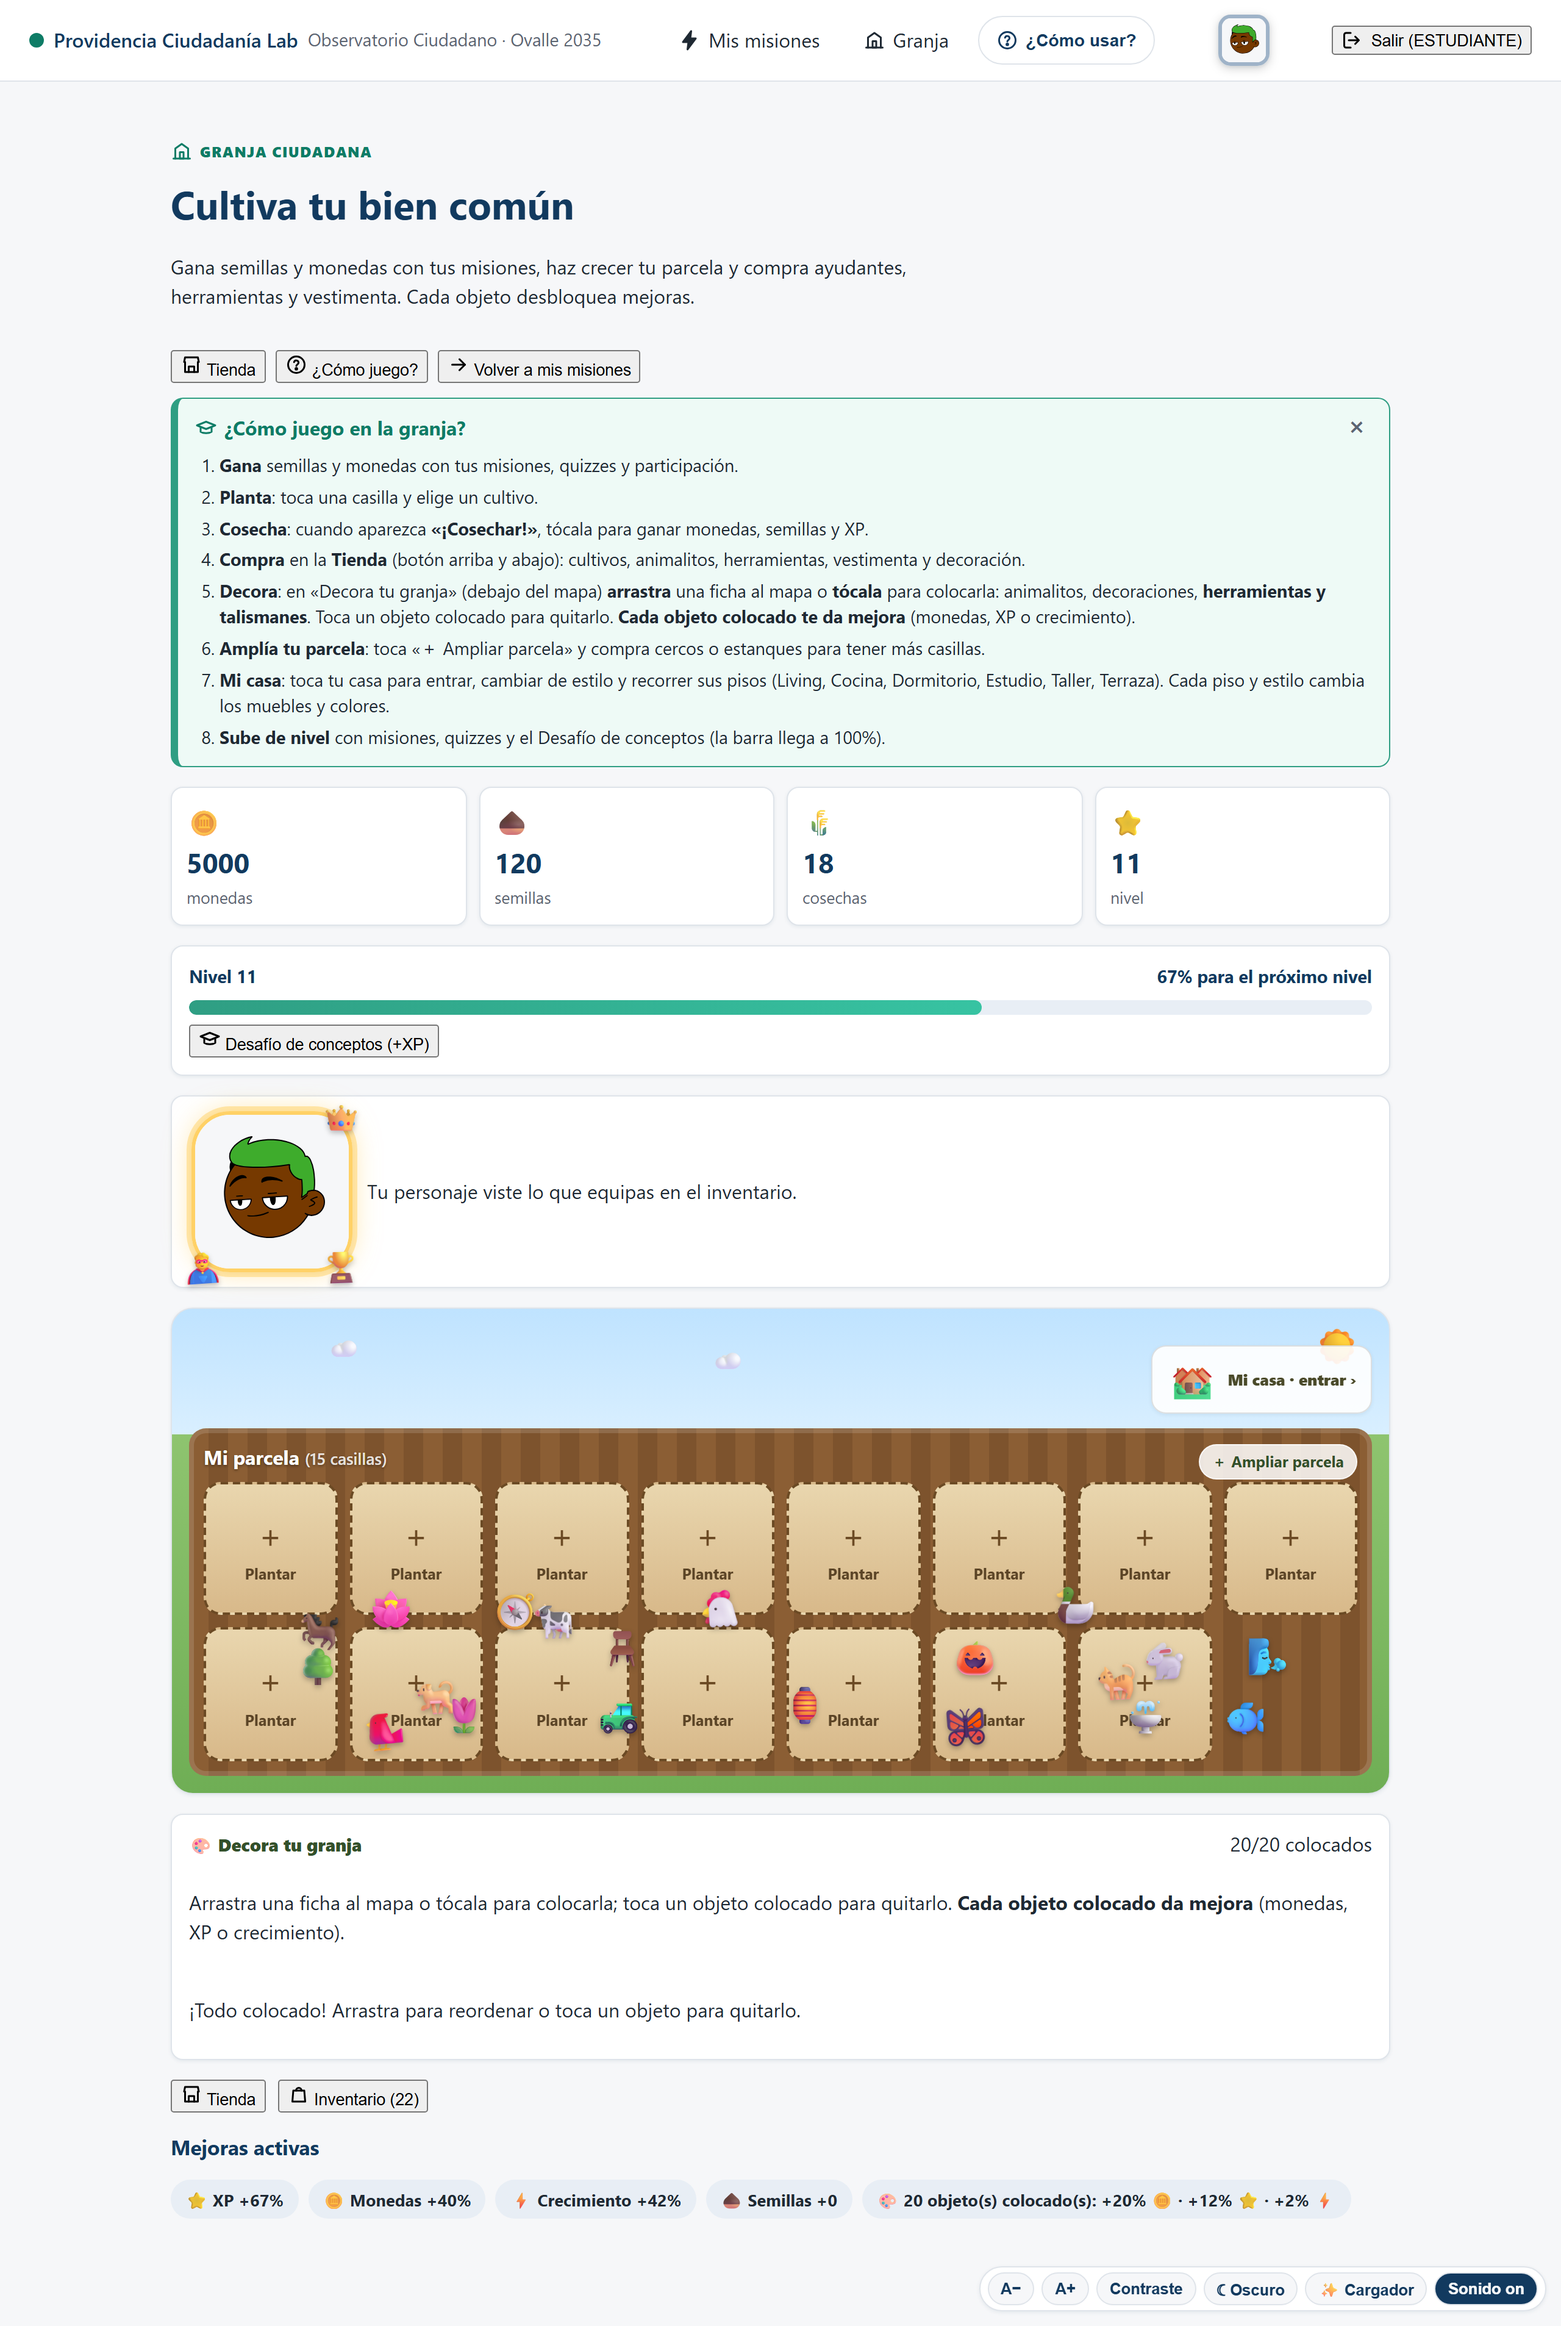
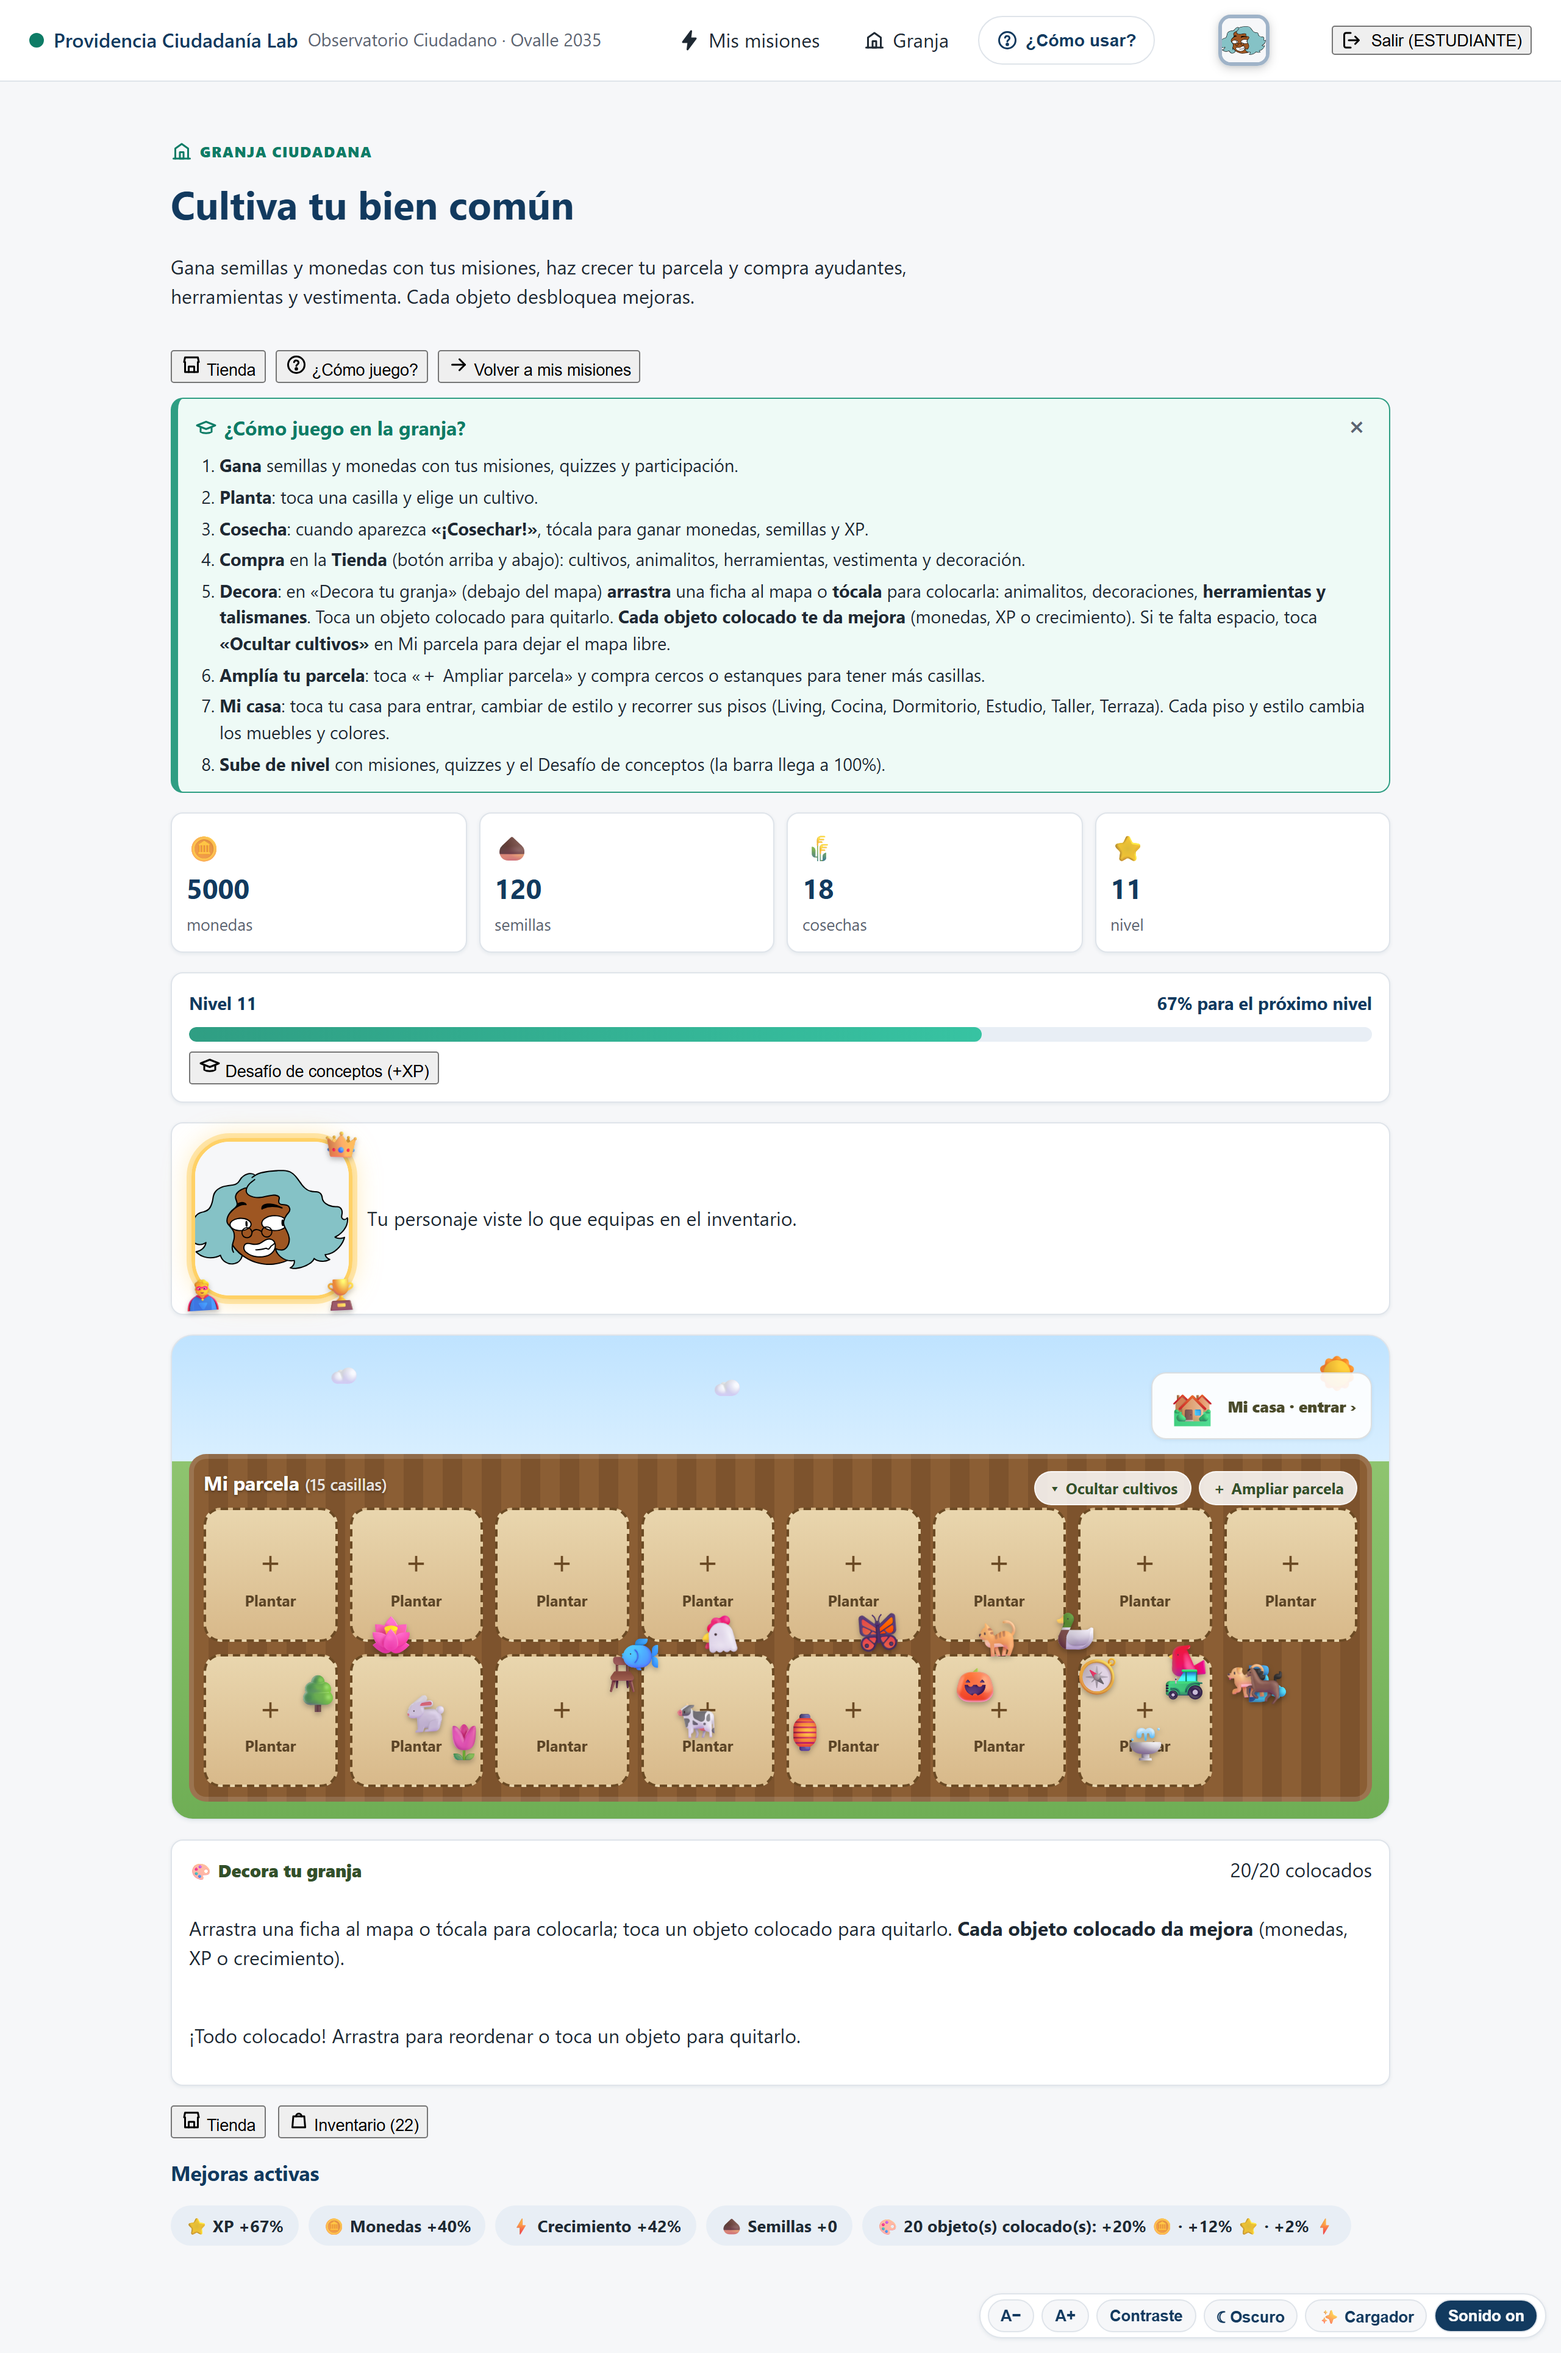
feat: colapsar/expandir cultivos para dejar el mapa libre a los adornos (0.20.0)
- Boton Ocultar/Mostrar cultivos (persistido) para colapsar la parcela
- Hint y layout; E2E verifica el toggle; hosting desplegado
- Captura docs/assets/granja-adornos.png con el mapa libre

diff --git a/apps/web/src/features/farm/FarmView.vue b/apps/web/src/features/farm/FarmView.vue
@@ -235,6 +235,25 @@ function openShop(category?: FarmItem["category"]): void {
   panel.value = "shop";
 }
 
+const FIELD_KEY = "pclab-farm-field";
+const fieldOpen = ref(
+  (() => {
+    try {
+      return localStorage.getItem(FIELD_KEY) !== "0";
+    } catch {
+      return true;
+    }
+  })(),
+);
+function toggleField(): void {
+  fieldOpen.value = !fieldOpen.value;
+  try {
+    localStorage.setItem(FIELD_KEY, fieldOpen.value ? "1" : "0");
+  } catch {
+    // sin almacenamiento
+  }
+}
+
 const HELP_KEY = "pclab-farm-help";
 const showHelp = ref(
   (() => {
@@ -388,7 +407,7 @@ function itemsByCategory(category: FarmItem["category"]): FarmItem[] {
         <li><b>Planta</b>: toca una casilla y elige un cultivo.</li>
         <li><b>Cosecha</b>: cuando aparezca <b>«¡Cosechar!»</b>, tócala para ganar monedas, semillas y XP.</li>
         <li><b>Compra</b> en la <b>Tienda</b> (botón arriba y abajo): cultivos, animalitos, herramientas, vestimenta y decoración.</li>
-        <li><b>Decora</b>: en «Decora tu granja» (debajo del mapa) <b>arrastra</b> una ficha al mapa o <b>tócala</b> para colocarla: animalitos, decoraciones, <b>herramientas y talismanes</b>. Toca un objeto colocado para quitarlo. <b>Cada objeto colocado te da mejora</b> (monedas, XP o crecimiento).</li>
+        <li><b>Decora</b>: en «Decora tu granja» (debajo del mapa) <b>arrastra</b> una ficha al mapa o <b>tócala</b> para colocarla: animalitos, decoraciones, <b>herramientas y talismanes</b>. Toca un objeto colocado para quitarlo. <b>Cada objeto colocado te da mejora</b> (monedas, XP o crecimiento). Si te falta espacio, toca <b>«Ocultar cultivos»</b> en Mi parcela para dejar el mapa libre.</li>
         <li><b>Amplía tu parcela</b>: toca «＋ Ampliar parcela» y compra cercos o estanques para tener más casillas.</li>
         <li><b>Mi casa</b>: toca tu casa para entrar, cambiar de estilo y recorrer sus pisos (Living, Cocina, Dormitorio, Estudio, Taller, Terraza). Cada piso y estilo cambia los muebles y colores.</li>
         <li><b>Sube de nivel</b> con misiones, quizzes y el Desafío de conceptos (la barra llega a 100%).</li>
@@ -447,12 +466,18 @@ function itemsByCategory(category: FarmItem["category"]): FarmItem[] {
             <span class="house-name">Mi casa · entrar ›</span>
           </button>
 
-          <div class="scene-field">
+          <div class="scene-field" :class="{ collapsed: !fieldOpen }">
             <div class="scene-title-row">
               <h2 class="scene-title">Mi parcela <small>({{ farm.plots.value.length }} casillas)</small></h2>
-              <button type="button" class="scene-expand" @click="openShop('decoration')">＋ Ampliar parcela</button>
+              <div class="scene-title-actions">
+                <button type="button" class="scene-expand" @click="toggleField">
+                  {{ fieldOpen ? "▾ Ocultar cultivos" : "▸ Mostrar cultivos" }}
+                </button>
+                <button type="button" class="scene-expand" @click="openShop('decoration')">＋ Ampliar parcela</button>
+              </div>
             </div>
-            <div class="plot-grid">
+            <p v-if="!fieldOpen" class="field-collapsed-hint">Cultivos ocultos · usa este espacio para colocar tus adornos 🎨</p>
+            <div v-show="fieldOpen" class="plot-grid">
               <button
                 v-for="plot in farm.plots.value"
                 :key="plot.index"
@@ -712,7 +737,7 @@ function itemsByCategory(category: FarmItem["category"]): FarmItem[] {
 .golden { color: #b7791f; font-weight: 800; }
 .farm-main { display: flex; flex-direction: column; gap: var(--space-4); margin: var(--space-4) 0; }
 .character { display: flex; align-items: center; gap: 12px; text-align: left; background: var(--color-surface); border: 1px solid var(--color-border); border-radius: var(--radius); padding: 12px 16px; box-shadow: var(--shadow); }
-.farm-scene { position: relative; border-radius: 18px; overflow: hidden; border: 1px solid var(--color-border); box-shadow: var(--shadow); background: linear-gradient(180deg, #bfe3ff 0%, #d9efff 26%, #8ec46f 26%, #6fae55 100%); padding: 14px; display: flex; flex-direction: column; gap: 12px; }
+.farm-scene { position: relative; border-radius: 18px; overflow: hidden; border: 1px solid var(--color-border); box-shadow: var(--shadow); background: linear-gradient(180deg, #bfe3ff 0%, #d9efff 26%, #8ec46f 26%, #6fae55 100%); padding: 14px; display: flex; flex-direction: column; gap: 12px; min-height: 380px; }
 .scene-sky { position: relative; height: 34px; }
 .sun { position: absolute; right: 8px; top: -6px; font-size: 1.8rem; animation: sunpulse 4s ease-in-out infinite; }
 .cloud { position: absolute; font-size: 1.3rem; opacity: .92; animation: drift 20s ease-in-out infinite alternate; }
@@ -725,6 +750,7 @@ function itemsByCategory(category: FarmItem["category"]): FarmItem[] {
 .house-ico { font-size: 1.9rem; }
 .house-name { font-weight: 800; color: #4a4a2a; font-size: .8rem; }
 .scene-field { background: repeating-linear-gradient(90deg, #8b5e34, #8b5e34 16px, #7d532d 16px, #7d532d 32px); border-radius: 14px; padding: 12px; box-shadow: inset 0 0 0 4px rgba(255,255,255,.14); }
+.scene-field.collapsed { background: rgba(0,0,0,.18); box-shadow: none; }
 .scene-title { margin: 0 0 8px; color: #fff; font-size: 1rem; text-shadow: 0 1px 2px rgba(0,0,0,.4); }
 .scene-title small { color: rgba(255,255,255,.85); font-weight: 600; }
 .plot-grid { display: grid; grid-template-columns: repeat(auto-fill, minmax(104px, 1fr)); gap: 10px; }
@@ -809,5 +835,7 @@ function itemsByCategory(category: FarmItem["category"]): FarmItem[] {
 .scene-title-row { display: flex; justify-content: space-between; align-items: center; gap: 8px; flex-wrap: wrap; }
 .scene-expand { border: 1px solid rgba(255,255,255,.7); background: rgba(255,255,255,.85); color: #33502a; border-radius: 999px; padding: 4px 10px; font: inherit; font-size: .78rem; font-weight: 700; cursor: pointer; }
 .scene-expand:hover { background: #fff; }
+.scene-title-actions { display: flex; gap: 6px; flex-wrap: wrap; }
+.field-collapsed-hint { margin: 6px 0 0; color: #fff; font-size: .82rem; font-weight: 600; text-shadow: 0 1px 2px rgba(0,0,0,.4); }
 .room-caption { position: absolute; top: 12px; left: 50%; transform: translateX(-50%); font-weight: 800; color: rgba(0,0,0,.55); font-size: .82rem; }
 </style>

diff --git a/e2e/farm.spec.ts b/e2e/farm.spec.ts
@@ -21,6 +21,12 @@ test("GRANJA — plantar, tienda, decorar e inventario", async ({ page }) => {
   await expect(page.getByText("semillas", { exact: true })).toBeVisible();
   await expect(page.getByText(/para el próximo nivel/)).toBeVisible();
 
+  // Colapsar/expandir la sección de cultivos (para dejar espacio a los adornos)
+  await page.getByRole("button", { name: /Ocultar cultivos/ }).click();
+  await expect(page.getByRole("button", { name: /Mostrar cultivos/ })).toBeVisible();
+  await page.getByRole("button", { name: /Mostrar cultivos/ }).click();
+  await expect(page.getByRole("button", { name: /Ocultar cultivos/ })).toBeVisible();
+
   // Plantar un cultivo en una casilla vacía (si hay)
   const emptyPlot = page.locator("button.plot", { hasText: "Plantar" }).first();
   if (await emptyPlot.count()) {

diff --git a/docs/CHANGELOG.md b/docs/CHANGELOG.md
@@ -11,8 +11,8 @@ Formato: [SemVer](https://semver.org/) + categorías `Added / Changed / Fixed / 
 - **Todo se decora**: además de animalitos y decoraciones, ahora **herramientas y talismanes también se colocan** en el mapa; cada objeto aporta bonus **según su categoría** — decoración +2% 🪙, animalitos/ayudantes +1% 🪙 y +1% ⭐, herramientas +2% ⚡ y talismanes +2% ⭐ (tope +20% por tipo), visible en "Mejoras activas". Server-authoritative (`saveFarmLayout`).
 - **Casa por dentro**: **6 salas temáticas** (Living, Cocina, Dormitorio, Estudio, **Taller**, Terraza) desbloqueadas por nivel, cada una con **muebles propios**, y los **colores del piso cambian según la casa** elegida.
 - **Más formas de casa**: **10 estilos** (🏕🛖🏠🏡🏘🏰🏚🏯🏛🏭) elegibles y **entrar a la casa**.
-- **Usabilidad del mapa**: la escena ocupa todo el ancho y la bandeja **"Decora tu granja" va debajo** (ya no tapa el mapa); botón **"＋ Ampliar parcela"**; panel de instrucciones "¿Cómo juego en la granja?" y botón **Tienda** arriba.
-- **Capturas**: granja en `docs/assets/granja-ciudadana.png` e interior en `docs/assets/granja-casa.png` (script `scripts/screenshot-farm.mjs`).
+- **Usabilidad del mapa**: la escena ocupa todo el ancho y la bandeja **"Decora tu granja" va debajo** (ya no tapa el mapa); botón **"Ocultar/Mostrar cultivos"** que **colapsa la parcela** para dejar el mapa libre y colocar adornos; botón **"＋ Ampliar parcela"**; panel de instrucciones "¿Cómo juego en la granja?" y botón **Tienda** arriba.
+- **Capturas**: granja (`docs/assets/granja-ciudadana.png`), mapa libre para adornos (`docs/assets/granja-adornos.png`) e interior (`docs/assets/granja-casa.png`); script `scripts/screenshot-farm.mjs`.
 - **Anuncio en la app**: banner descartable en el inicio del estudiante que enlaza a la Granja (se oculta al cerrarlo, persistido en `pclab-farm-announce`).
 - **Granja Ciudadana** (server-authoritative): parcela con casillas desbloqueables por nivel, cultivos que crecen en tiempo real, cosecha de monedas/semillas/XP, tienda e inventario con **49 objetos** y perks pasivos (`xp_bonus`, `coin_bonus`, `growth_speed`, `seed_bonus`, `unlock_plot`, `concept_hint`) en 7 categorías (cultivos, NPCs, herramientas, talismanes, vestimenta, accesorios, decoración). **Cosecha Dorada** como condición de victoria. Ver `docs/GRANJA_CIUDADANA.md`.
 - **Quiz de conceptos clave por nivel** ("Desafío de Saberes"): `content/concept-quizzes.json` con **12 niveles × 10 preguntas = 120 preguntas**, corrección server-side y bono de XP la primera aprobación por nivel.

diff --git a/docs/GRANJA_CIUDADANA.md b/docs/GRANJA_CIUDADANA.md
@@ -166,7 +166,10 @@ Archivos: `apps/web/src/composables/useFarm.ts`, `features/farm/FarmView.vue`,
 - [x] **Instrucciones**: panel "¿Cómo juego en la granja?" en la granja (incluye "Ampliar
       parcela" y cómo colocar objetos), botón **Tienda** arriba y pasos de la Granja en
       **"¿Cómo usar?"**.
-- [x] Capturas: `docs/assets/granja-ciudadana.png` y `docs/assets/granja-casa.png`.
+- [x] **Colapsar la parcela**: botón **"Ocultar/Mostrar cultivos"** para ocultar la grilla de
+      siembra y dejar el mapa libre para colocar adornos (estado persistido).
+- [x] Capturas: `docs/assets/granja-ciudadana.png`, `docs/assets/granja-adornos.png` (mapa
+      libre) y `docs/assets/granja-casa.png`.
 
 ---
 
